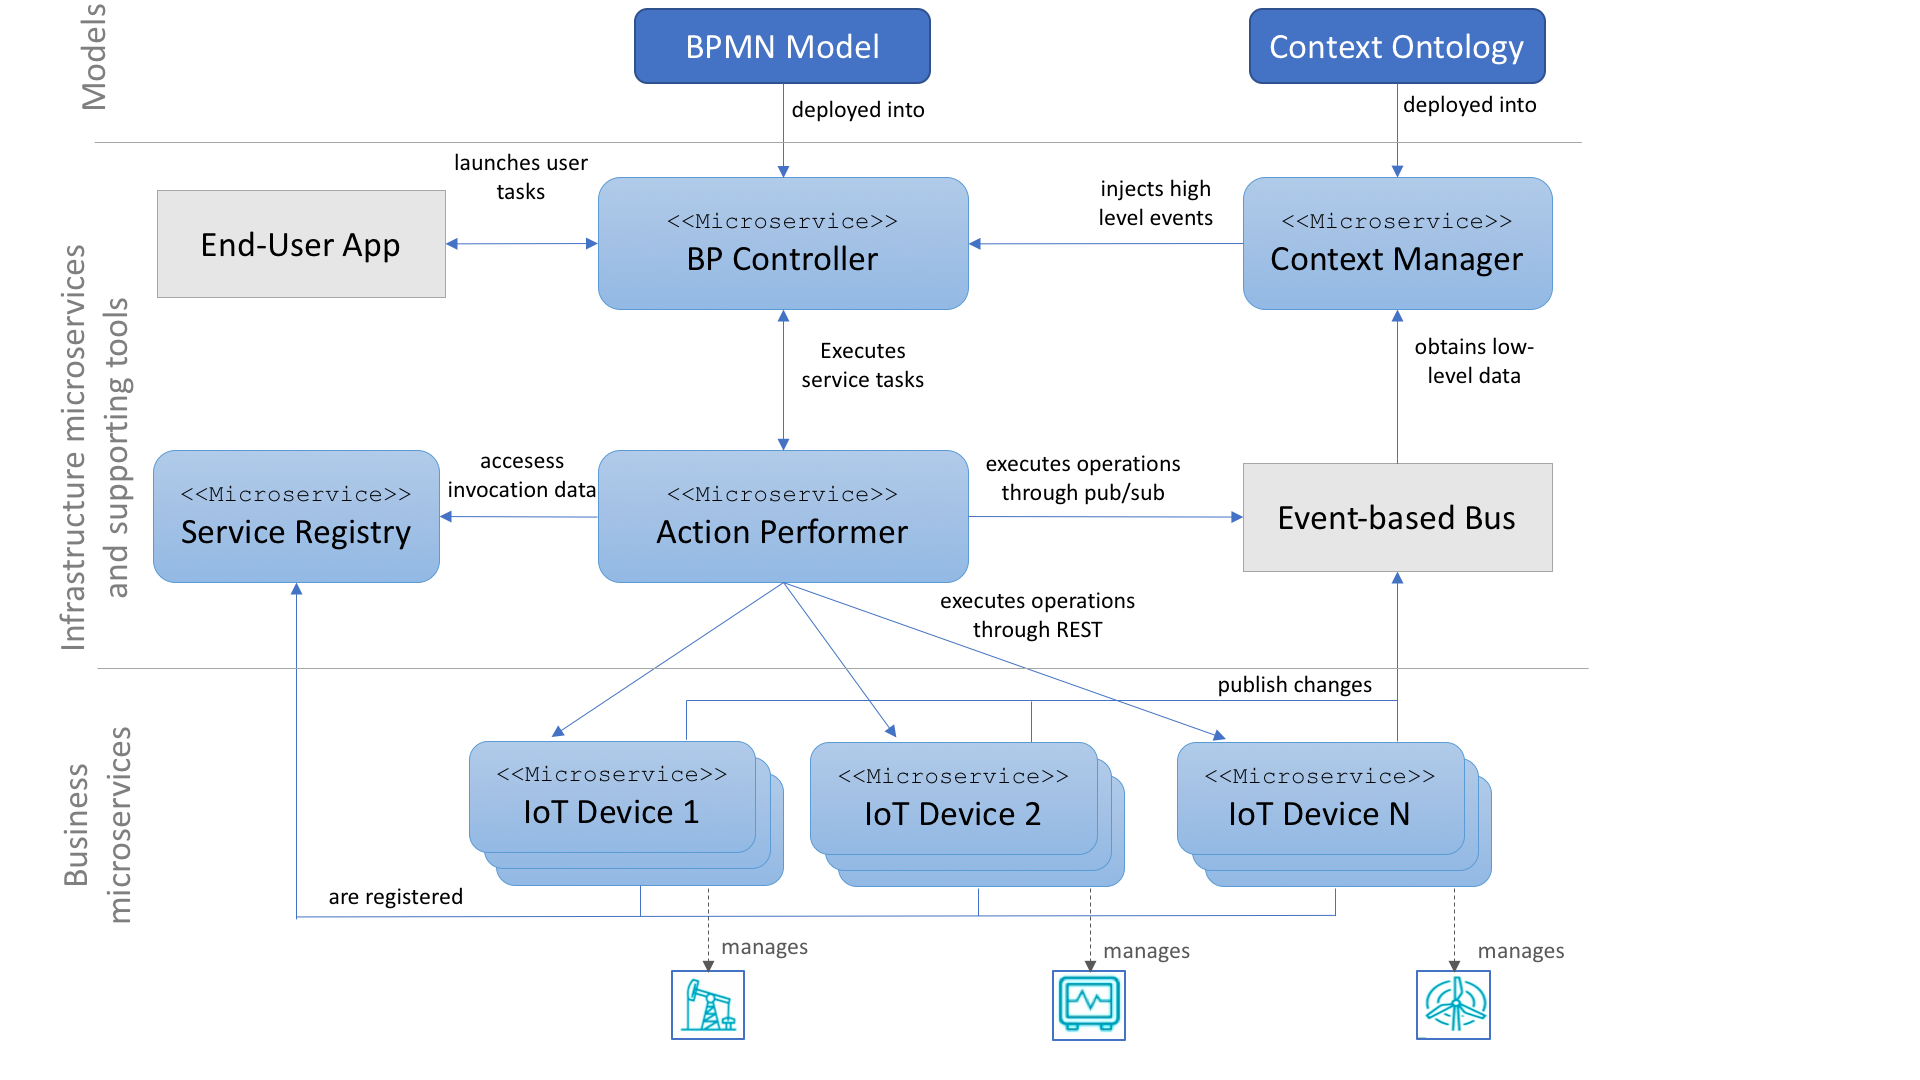
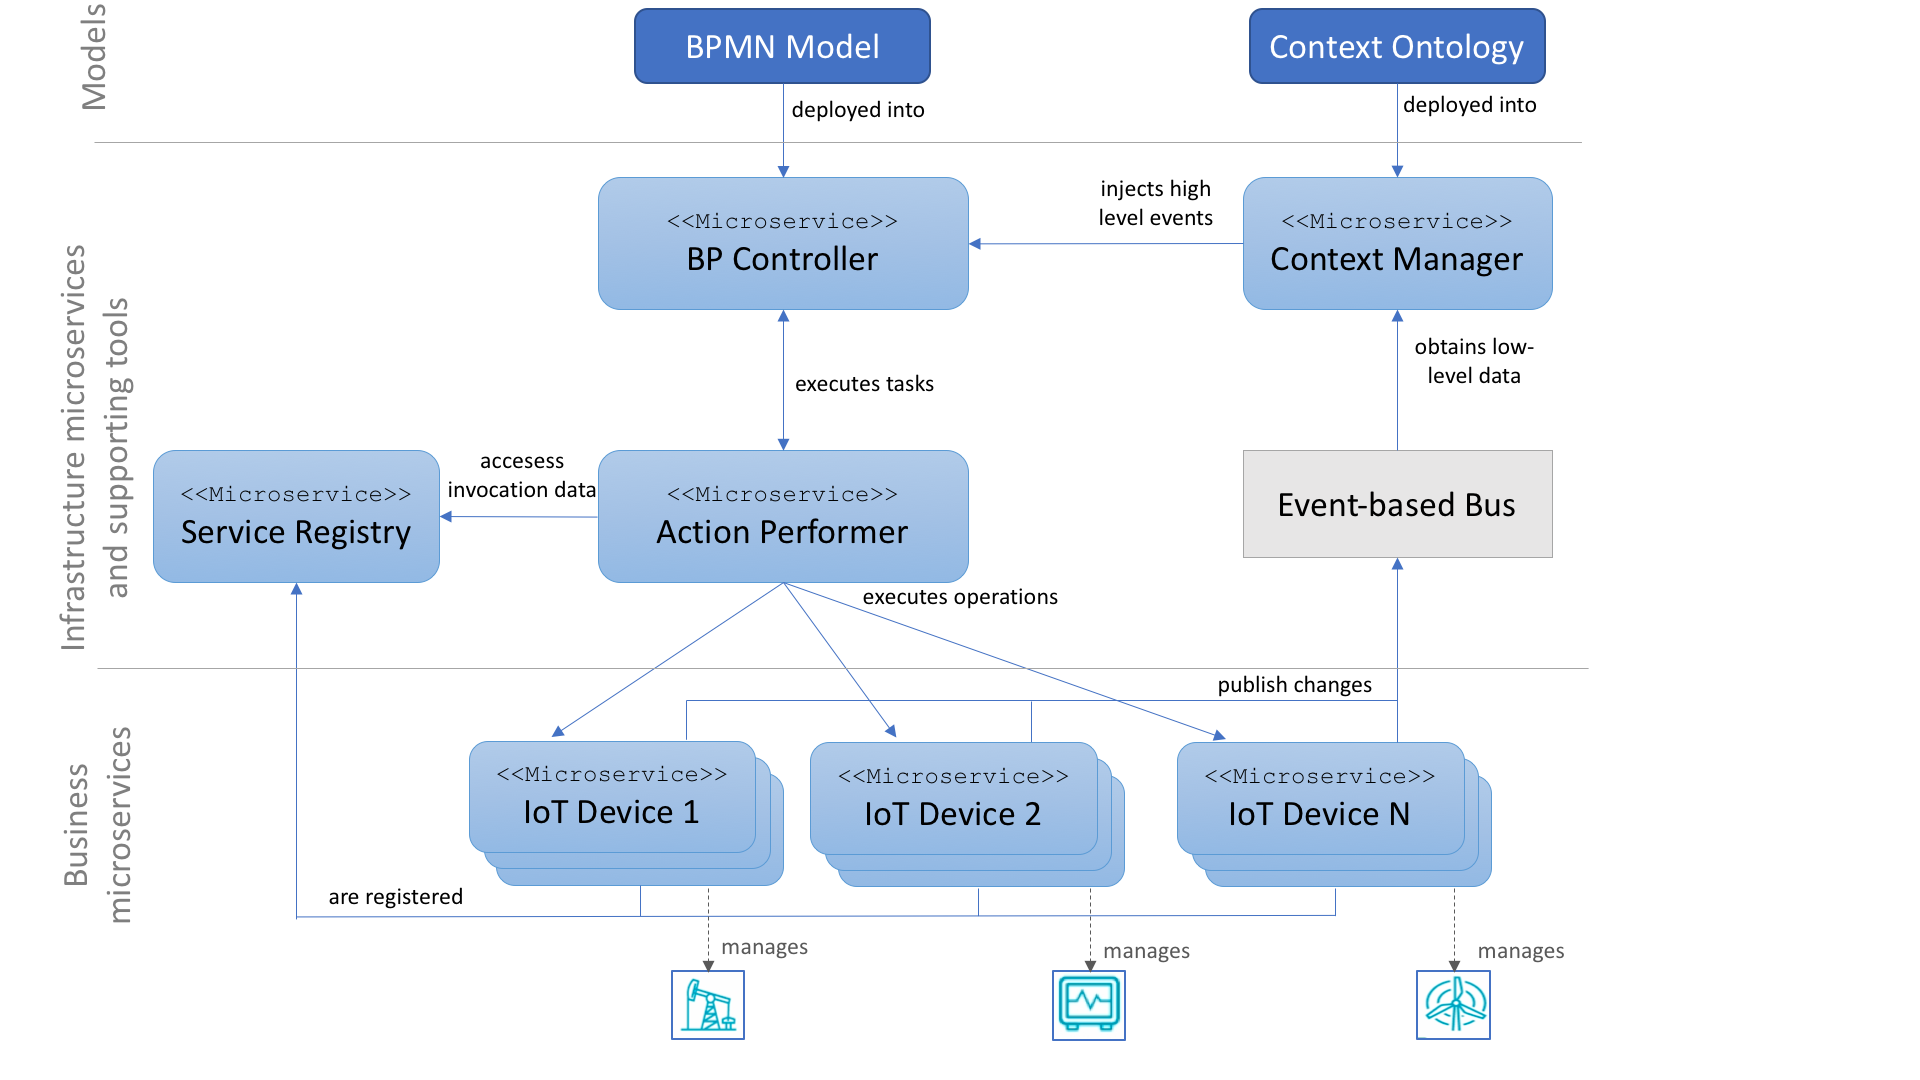
IoT Device Updated

diff --git a/IoTDevice/src/main/java/es/upv/pros/pvalderas/microservice/iotdevice/ClientStarter.java b/IoTDevice/src/main/java/es/upv/pros/pvalderas/microservice/iotdevice/ClientStarter.java
@@ -1,4 +1,4 @@
-package es.upv.pros.pvalderas.microservice.syncronous;
+package es.upv.pros.pvalderas.microservice.iotdevice;
 
 import java.io.IOException;
 import java.lang.annotation.Annotation;
@@ -33,7 +33,7 @@ public class ClientStarter implements ApplicationRunner {
 		if(mainClass!=null){
 			String microservice=mainClass.getSimpleName();
 			
-			System.out.println("Setting up Syncronous Microservice "+microservice);
+			System.out.println("Setting up IoT Device "+microservice);
 				        
 			registerOperations(mainClass);
 			

diff --git a/IoTDevice/src/main/java/es/upv/pros/pvalderas/microservice/iotdevice/HTTPController.java b/IoTDevice/src/main/java/es/upv/pros/pvalderas/microservice/iotdevice/HTTPController.java
@@ -1,4 +1,4 @@
-package es.upv.pros.pvalderas.microservice.syncronous;
+package es.upv.pros.pvalderas.microservice.iotdevice;
 import org.springframework.web.bind.annotation.GetMapping;
 import org.springframework.web.bind.annotation.RestController;
  

diff --git a/IoTDevice/src/main/java/es/upv/pros/pvalderas/microservice/iotdevice/BPMNOperation.java b/IoTDevice/src/main/java/es/upv/pros/pvalderas/microservice/iotdevice/BPMNOperation.java
@@ -1,4 +1,4 @@
-package es.upv.pros.pvalderas.microservice.syncronous;
+package es.upv.pros.pvalderas.microservice.iotdevice;
 
 import java.lang.annotation.ElementType;
 import java.lang.annotation.Retention;

diff --git a/IoTDevice/src/main/java/es/upv/pros/pvalderas/microservice/iotdevice/IoTDevice.java b/IoTDevice/src/main/java/es/upv/pros/pvalderas/microservice/iotdevice/IoTDevice.java
@@ -1,4 +1,4 @@
-package es.upv.pros.pvalderas.microservice.syncronous;
+package es.upv.pros.pvalderas.microservice.iotdevice;
 
 import java.lang.annotation.ElementType;
 import java.lang.annotation.Retention;

diff --git a/IoTDevice/src/main/java/es/upv/pros/pvalderas/microservice/iotdevice/OperationList.java b/IoTDevice/src/main/java/es/upv/pros/pvalderas/microservice/iotdevice/OperationList.java
@@ -1,4 +1,4 @@
-package es.upv.pros.pvalderas.microservice.syncronous;
+package es.upv.pros.pvalderas.microservice.iotdevice;
 
 import org.json.JSONArray;
 

diff --git a/README.md b/README.md
@@ -36,7 +36,7 @@ The architectural elements that support our proposal are depicted in red. Thery 
 
 * Event bus: it supports the asynchronous communication required by the infrastructure based on a publish/subscribe patter. The RabbitMQ  queue-based message broker is currently supported. 
 
-* IoT microservices: they are the microservices in charge of controlling IoT devices. We support two type of interaction with IoT microservices: (1) Synchronously through REST invoations and (2) Asynchronously through publish/subscribe communicatio through the event bus.
+* IoT Devices: they are the microservices in charge of controlling IoT devices. We support two type of interaction with IoT microservices: (1) Synchronously through REST invoations and (2) Asynchronously through publish/subscribe communicatio through the event bus.
 
 In order to create the BP Controller, the Action Performer, the Context Manager and the Synchronous and Asychronous IoT microservices we provide the following tool-support.
 
@@ -119,14 +119,14 @@ eventBus:
   host: localhost
 ```
 
-# Creating a microservice to support an IoT device controlled by a synchronous REST API
+# Creating a microservice to support an IoT device
 
-To create an IoT microservice that interact with the Action Performed through synchronous REST invocations you can use Gradle to build the corresponding project in this repository and include it as a dependency of a Spring Boot Application. Then, you just need to annotate the main class with the ```@SyncronousMicroservice``` as presented bellow. This annotation must be configured with the class object of the microservice HTTP controller. Note also that the ```@SpringBootApplication``` annotation must be configured to find beans in the ```es.upv.pros.pvalderas.microservice.syncronous``` package as well as the package in which the HTTP controller of the microservice is implemented (```es.upv.pros.pvalderas.truckcontainer``` in the example below). In addition, the ```@EnableDiscoveryClient``` annotation is used to register the microservice in Eureka.
+To create an IoT microservice that interact with the Action Performed through synchronous REST invocations you can use Gradle to build the corresponding project in this repository and include it as a dependency of a Spring Boot Application. Then, you just need to annotate the main class with the ```@IoTDevice``` as presented bellow. This annotation must be configured with the class object of the microservice HTTP controller. Note also that the ```@SpringBootApplication``` annotation must be configured to find beans in the ```es.upv.pros.pvalderas.microservice.syncronous``` package as well as the package in which the HTTP controller of the microservice is implemented (```es.upv.pros.pvalderas.truckcontainer``` in the example below). In addition, the ```@EnableDiscoveryClient``` annotation is used to register the microservice in Eureka.
 
 ```java
 @EnableDiscoveryClient
-@SpringBootApplication(scanBasePackages = {"es.upv.pros.pvalderas.truckcontainer","es.upv.pros.pvalderas.microservice.syncronous"})
-@SyncronousMicroservice(serviceAPIClass=TruckContainerSensorHTTPController.class)
+@SpringBootApplication(scanBasePackages = {"es.upv.pros.pvalderas.truckcontainer","es.upv.pros.pvalderas.microservice.iotdevice"})
+@IoTDevice(serviceAPIClass=TruckContainerSensorHTTPController.class)
 public class TruckContainerSensor {
   public static void main(String[] args) {
     SpringApplication.run(TruckContainerSensor.class, args);
@@ -151,48 +151,6 @@ eureka:
     metadataMap:
       connectionType: synchronous
 ```
-
-# Creating a microservice to support an IoT device controlled by an asynchronous pub/sub broker
-
-To create an IoT microservice that interact with the Action Performer through a pub/sub communication you can use Gradle to build the corresponding project in this repository and include it as a dependency of a Spring Boot Application. Then, you just need to annotate the main class with the ```@AsyncronousMicroservice``` as presented bellow. This annotation must be configured with the class object of API that describe the operation provided by the microserive. Note also that the ```@SpringBootApplication``` annotation must be configured to find beans in the ```es.upv.pros.pvalderas.microservice.asynchronous``` package as well as the package in which the HTTP controller of the microservice is implemented (```es.upv.pros.pvalderas.refrigerator``` in the example below). In addition, the ```@EnableDiscoveryClient``` annotation is used to register the microservice in Eureka.
-
-```java
-@EnableDiscoveryClient
-@SpringBootApplication(scanBasePackages = {"es.upv.pros.pvalderas.refrigerator","es.upv.pros.pvalderas.microservice.asynchronous"})
-@AsynchronousMicroservice(serviceAPIClass=RefrigeratorControlSystemAPI.class)
-public class RefrigeratorControlSystem {
-  public static void main(String[] args) {
-    SpringApplication.run(RefrigeratorControlSystem.class, args);
-  }
-}
-```
-Next, you must create an application.yml file and define the name of the microservice (which is shown in the BPMN editor provided by the BPController), indicate its HTTP port, create the configuration of the service registry Eureka and the event bus, and define the url of the BPController used to complete BPMN tasks.
-
-```yml
-spring:
-  application:
-    name: Refrigerator
-    
-server:
-  port: 8092
-    
-eureka:
-  client:
-    serviceUrl:
-      defaultZone: http://localhost:2222/eureka
-  instance:
-    metadataMap:
-      connectionType: asynchronous
-
-eventBus:
-  type: rabbitmq
-  host: localhost
- 
-bpController:
-  serviceUrl: http://localhost:8081
-  asyncTaskPath: /process/asynctask/
-```
-
 
 # Using the infrastructure to create and execute an IoT-enhanced business proccess
 
